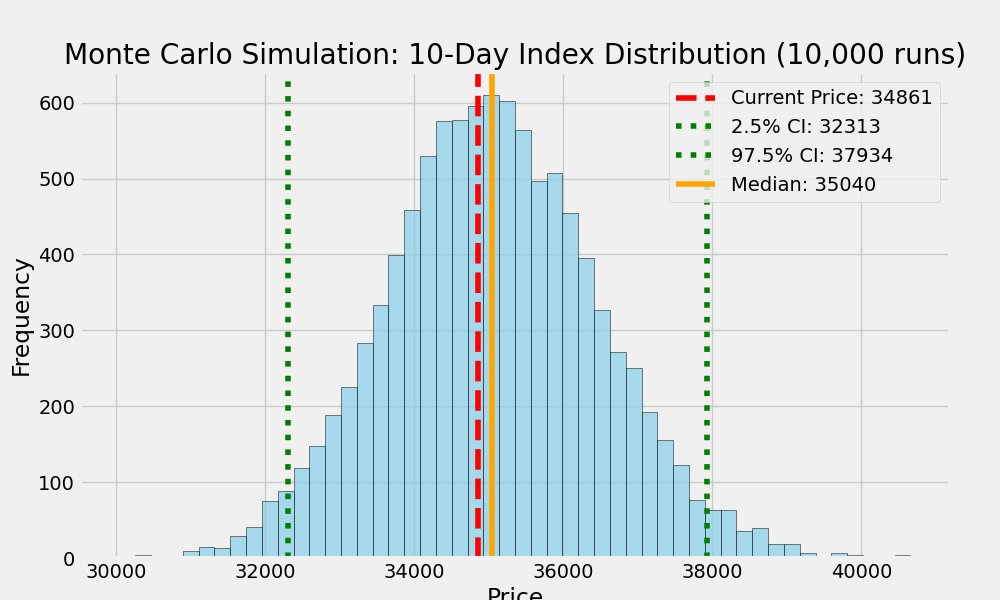
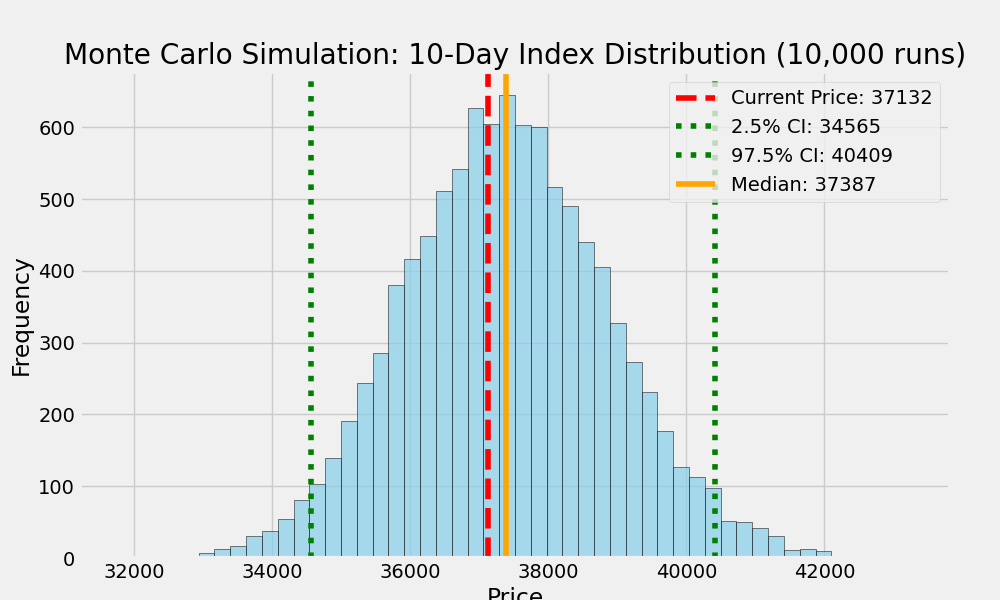
up

diff --git a/Trading/💼指令/數學計算大盤走勢/analyze_market.py b/Trading/💼指令/數學計算大盤走勢/analyze_market.py
@@ -9,9 +9,9 @@ import datetime
 plt.style.use('fivethirtyeight')
 
 # Path to the data file
-CSV_PATH = '/Users/starchang/Documents/CloudFolder/01 GitHub/AI-Agent/Trading/股票/0000加權指數/大盤交易資料.csv'
-REPORT_PATH = '/Users/starchang/Documents/CloudFolder/01 GitHub/AI-Agent/Trading/💼指令/數學計算大盤走勢/✅數學計算大盤走勢.md'
-ARTIFACTS_DIR = '/Users/starchang/Documents/CloudFolder/01 GitHub/AI-Agent/Trading/💼指令/數學計算大盤走勢/charts'
+CSV_PATH = '/Users/starchang/Documents/CloudFolder/GitHub/AI-Agent/Trading/股票/0000加權指數/大盤交易資料.csv'
+REPORT_PATH = '/Users/starchang/Documents/CloudFolder/GitHub/AI-Agent/Trading/💼指令/數學計算大盤走勢/✅數學計算大盤走勢.md'
+ARTIFACTS_DIR = '/Users/starchang/Documents/CloudFolder/GitHub/AI-Agent/Trading/💼指令/數學計算大盤走勢/charts'
 
 # Create chart directory
 os.makedirs(ARTIFACTS_DIR, exist_ok=True)

diff --git a/Trading/💼指令/數學計算大盤走勢/✅數學計算大盤走勢.md b/Trading/💼指令/數學計算大盤走勢/✅數學計算大盤走勢.md
@@ -1,37 +1,37 @@
 # 數學計算大盤走勢分析報告
-**報告日期**: 2026-04-09
+**報告日期**: 2026-04-17
 
 本報告基於過去 5 年的加權指數大盤數據，從數學與統計學角度對市場走勢、規律及特定指標進行深度分析。
 
 ## 1. 馬可夫鏈 (Markov Chain)
 分析過去 5 年數據，統計連續 2 天上漲後第 3 天的行情機率。
 
-- **連續 2 天上漲後第 3 天上漲機率**: **56.03%**
+- **連續 2 天上漲後第 3 天上漲機率**: **56.53%**
 - **所有三日序列組合統計**:
 
 | 序列組合 (T-2, T-1, T) | 次數 | 機率分佈 |
 | :--- | :--- | :--- |
-| DOWN-DOWN-DOWN | 138 | 11.38% |
-| DOWN-DOWN-UP | 136 | 11.21% |
+| DOWN-DOWN-DOWN | 136 | 11.21% |
+| DOWN-DOWN-UP | 135 | 11.13% |
 | DOWN-UP-DOWN | 142 | 11.71% |
-| DOWN-UP-UP | 154 | 12.70% |
+| DOWN-UP-UP | 153 | 12.61% |
 | UP-DOWN-DOWN | 135 | 11.13% |
 | UP-DOWN-UP | 160 | 13.19% |
 | UP-UP-DOWN | 153 | 12.61% |
-| UP-UP-UP | 195 | 16.08% |
+| UP-UP-UP | 199 | 16.41% |
 
 ## 2. 蒙地卡羅模擬 (Monte Carlo Simulation)
 基於幾何布朗運動 (GBM)，對未來 10 個交易日的價格路徑進行 10,000 次模擬。
 
 - **數據基準 (過去 5 年)**: 
-  - 每日對數收益率平均值 (μ): 0.000599
-  - 每日對數收益率標準差 (σ): 0.012695
+  - 每日對數收益率平均值 (μ): 0.000636
+  - 每日對數收益率標準差 (σ): 0.012721
 - **模擬預測 (10 天後)**:
-  - **目前價格**: 34861.16
-  - **機率最高價格 (中位數)**: 35039.51
-  - **95% 置信區間 (CI)**: [32313.21, 37934.49]
+  - **目前價格**: 37132.02
+  - **機率最高價格 (中位數)**: 37386.69
+  - **95% 置信區間 (CI)**: [34564.57, 40409.43]
 
-![蒙地卡羅模擬分布圖](file:///Users/starchang/Documents/CloudFolder/01 GitHub/AI-Agent/Trading/💼指令/數學計算大盤走勢/charts/monte_carlo.png)
+![蒙地卡羅模擬分布圖](file:///Users/starchang/Documents/CloudFolder/GitHub/AI-Agent/Trading/💼指令/數學計算大盤走勢/charts/monte_carlo.png)
 
 ## 3. 特徵工程與統計檢定 (RSI 指標分析)
 分析 RSI (14) 指標在不同區間時，隔天 K 線收紅的勝率與期望值。
@@ -39,15 +39,15 @@
 | RSI 區間 | 樣本數 | 隔天勝率 | 期望值增量 | P-value |
 | :--- | :--- | :--- | :--- | :--- |
 | 0-10 | 0 | nan% | nan% | 1.0000 |
-| 10-20 | 9 | 88.89% | 35.80% | 0.0423 (顯著) |
-| 20-30 | 77 | 58.44% | 5.36% | 0.3631 |
-| 30-40 | 175 | 42.86% | -10.23% | 0.0079 (顯著) |
-| 40-50 | 225 | 55.11% | 2.02% | 0.5486 |
-| 50-60 | 212 | 53.77% | 0.69% | 0.8906 |
-| 60-70 | 229 | 55.46% | 2.37% | 0.5080 |
-| 70-80 | 179 | 51.40% | -1.69% | 0.6540 |
-| 80-90 | 91 | 54.95% | 1.86% | 0.7535 |
-| 90-100 | 5 | 60.00% | 6.91% | 1.0000 |
+| 10-20 | 9 | 88.89% | 35.56% | 0.0428 (顯著) |
+| 20-30 | 77 | 58.44% | 5.11% | 0.4243 |
+| 30-40 | 175 | 42.86% | -10.48% | 0.0062 (顯著) |
+| 40-50 | 224 | 54.91% | 1.58% | 0.6401 |
+| 50-60 | 211 | 54.50% | 1.17% | 0.7826 |
+| 60-70 | 230 | 56.09% | 2.75% | 0.4280 |
+| 70-80 | 180 | 52.22% | -1.11% | 0.7657 |
+| 80-90 | 91 | 54.95% | 1.61% | 0.8337 |
+| 90-100 | 5 | 60.00% | 6.67% | 1.0000 |
 
 ## 4. K線形態歷史勝率 (長下影線)
 識別特徵：影線長度 > 實體長度 2 倍。
@@ -57,17 +57,17 @@
 
 | 持有期間 | 平均報酬率 | 勝率 | 盈虧比 (P/L) |
 | :--- | :--- | :--- | :--- |
-| 1 天 | 0.01% | 49.52% | 1.03 |
-| 3 天 | 0.15% | 60.10% | 0.80 |
-| 5 天 | 0.34% | 60.10% | 0.92 |
+| 1 天 | 0.02% | 49.76% | 1.05 |
+| 3 天 | 0.18% | 60.29% | 0.82 |
+| 5 天 | 0.36% | 60.10% | 0.93 |
 
-![長下影線後 1 日收益分佈](file:///Users/starchang/Documents/CloudFolder/01 GitHub/AI-Agent/Trading/💼指令/數學計算大盤走勢/charts/pattern_returns.png)
+![長下影線後 1 日收益分佈](file:///Users/starchang/Documents/CloudFolder/GitHub/AI-Agent/Trading/💼指令/數學計算大盤走勢/charts/pattern_returns.png)
 
 ## 總結與結論
-1. **短期慣性**: 根據馬可夫鏈分析，連續上漲具備一定的慣性，目前的『漲-漲-漲』機率為 56.03%。
-2. **波動預期**: 蒙地卡羅模擬顯示，未來 10 天的價格波動中心位於 35039.51，波動範圍較大的區間在 32313.21 至 37934.49 之間。
+1. **短期慣性**: 根據馬可夫鏈分析，連續上漲具備一定的慣性，目前的『漲-漲-漲』機率為 56.53%。
+2. **波動預期**: 蒙地卡羅模擬顯示，未來 10 天的價格波動中心位於 37386.69，波動範圍較大的區間在 34564.57 至 40409.43 之間。
 3. **指標指引**: RSI 在 **10-20** 區間時具備最高的隔天勝率 (88.89%)。
-4. **形態戰備**: 「長下影線」在 T+5 的平均報酬率為 0.34%，勝率為 60.10%，顯示該形態在短中期具備抄底價值。
+4. **形態戰備**: 「長下影線」在 T+5 的平均報酬率為 0.36%，勝率為 60.10%，顯示該形態在短中期具備抄底價值。
 
 ### 💡 未來20個交易日明確交易建議
 基於上述數學與統計分析的總和考量，接下來「未來20個交易日」的交易建議為：**買進 (Buy)** - 動量與短期期望值皆偏多

diff --git a/Trading/💼指令/數學計算大盤走勢/數學計算大盤走勢 📑 Web 指令.md b/Trading/💼指令/數學計算大盤走勢/數學計算大盤走勢 📑 Web 指令.md
@@ -1,5 +1,4 @@
-
-## 
+依序進行 `# 1. 馬可夫鏈（Markov Chain）` 、 `# 2. 蒙地卡羅模擬（Monte Carlo Simulation）` 、 `# 3. 特徵工程與統計檢定` 、 `# 4. K線形態歷史勝率` 數學計算，預測未來 20 個交易日的台股大盤指數走勢機率，並於最後告訴我 `# 5. 結論` 。
 
 # 1. 馬可夫鏈（Markov Chain）
 
@@ -38,10 +37,10 @@
 
 ## 任務
 
-1. 請掃描這 5 年的數據，找出所有符合『長下影線（影線長度大於實體 2 倍）』特徵的 K 線。
-2. 統計這類 K 線出現後，隔天、後三天、以及後五天的平均報酬率。
-3. 計算這些樣本的勝率（漲幅 > 0 的比例）與盈虧比（Profit/Loss Ratio）。
-4. 請用直方圖展示這些樣本在發生後的收益分佈。
+1. 請掃描這 5 年的數據，自動辨識並分類出常見的 K 線反轉形態（例如：長下影線/錘子、長上影線/流星、十字星等）。若屬長影線類，可使用數學條件：「單邊影線長度大於實體長度（Abs(開盤-收盤)） 2 倍」作為判斷基準。
+2. 針對「每一種類型的 K 線形態」，分別統計其出現後，隔天、後三天、以及後五天的平均報酬率。
+3. 計算不同形態樣本的勝率（未來漲幅 > 0 的比例）與盈虧比（Profit/Loss Ratio）。
+4. 請用視覺化圖表（如直方圖或盒鬚圖），比較這幾種主要形態發生後的收益分佈差異。
 
 # 5. 結論
 

diff --git a/Trading/💼指令/數學計算大盤走勢/4.K線形態歷史勝率.md b/Trading/💼指令/數學計算大盤走勢/4.K線形態歷史勝率.md
@@ -6,7 +6,7 @@
 
 # 任務
 
-1. 請掃描這 5 年的數據，找出所有符合『長下影線（影線長度大於實體 2 倍）』特徵的 K 線。
-2. 統計這類 K 線出現後，隔天、後三天、以及後五天的平均報酬率。
-3. 計算這些樣本的勝率（漲幅 > 0 的比例）與盈虧比（Profit/Loss Ratio）。
-4. 請用直方圖展示這些樣本在發生後的收益分佈。
+1. 請掃描這 5 年的數據，自動辨識並分類出常見的 K 線反轉形態（例如：長下影線/錘子、長上影線/流星、十字星等）。若屬長影線類，可使用數學條件：「單邊影線長度大於實體長度（Abs(開盤-收盤)） 2 倍」作為判斷基準。
+2. 針對「每一種類型的 K 線形態」，分別統計其出現後，隔天、後三天、以及後五天的平均報酬率。
+3. 計算不同形態樣本的勝率（未來漲幅 > 0 的比例）與盈虧比（Profit/Loss Ratio）。
+4. 請用視覺化圖表（如直方圖或盒鬚圖），比較這幾種主要形態發生後的收益分佈差異。